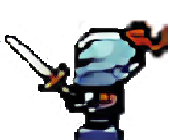
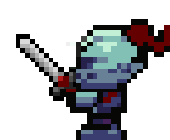
Redid all the player models, added the riposte mechanic, cleared some code

Changed region(s): [[0.0294, 0.1143, 1.0, 1.0]]

diff --git a/startGame.js b/startGame.js
@@ -2,20 +2,22 @@ const actionCounter = () => {
     drawStatusBox()
     // setTimeout(() => {
     if (opponentStance === playerStance) {
-        playerHlth -= 1
-        opponentHlth -= 1
+        // playerHlth -= 1
+        // opponentHlth -= 1
         riposteSound.play()
         drawStatusBox()
-        fightRsltBox()
+        // fightRsltBox()
         ctx.fillText('Same position!', 310, 220)
-        ctx.fillText('Both received 1 damage!', 310, 240)
+        // ctx.fillText('Both received 1 damage!', 310, 240)
+        riposteScreen()
+        return
     } else if (opponentStance === 0 && (playerStance === 1)) {
         playerHlth -= 1
         playerHitSound.play()
         hitSound.play()
         drawStatusBox()
         fightRsltBox()
-        ctx.fillText('The opponent parried you blow!', 310, 220)
+        ctx.fillText('The opponent parries!', 310, 220)
         ctx.fillText('You received 1 damage!', 310, 240)
     } else if (opponentStance === 1 && (playerStance === 2)) {
         playerHlth -= 2
@@ -23,7 +25,7 @@ const actionCounter = () => {
         playerHitSound.play()
         drawStatusBox()
         fightRsltBox()
-        ctx.fillText('The opponent parried you overhead!', 310, 220)
+        ctx.fillText('The opponent parries!', 310, 220)
         ctx.fillText('You received 2 damage!', 310, 240)
     } else if (opponentStance === 2 && (playerStance === 0)) {
         playerHlth -= 3
@@ -31,7 +33,7 @@ const actionCounter = () => {
         playerHitSound.play()
         drawStatusBox()
         fightRsltBox()
-        ctx.fillText('You did not manage to parry the overhead!', 310, 220)
+        ctx.fillText('You did not manage to parry!', 310, 220)
         ctx.fillText('You received 3 damage!', 310, 240)
     } else if (playerStance === 0 && (opponentStance === 1)) {
         opponentHlth -= 1
@@ -39,7 +41,7 @@ const actionCounter = () => {
         hitSound.play()
         drawStatusBox()
         fightRsltBox()
-        ctx.fillText(`You parry the opponent's blow!`, 310, 220)
+        ctx.fillText(`You parry the opponent!`, 310, 220)
         ctx.fillText('You deal 1 damage!', 310, 240)
     } else if (playerStance === 1 && (opponentStance === 2)) {
         opponentHlth -= 2
@@ -47,7 +49,7 @@ const actionCounter = () => {
         crowdCheer.play()
         drawStatusBox()
         fightRsltBox()
-        ctx.fillText(`You parry the opponent's overhead!`, 310, 220)
+        ctx.fillText(`You parry the opponent!`, 310, 220)
         ctx.fillText('You deal 2 damage!', 310, 240)
     } else if (playerStance === 2 && (opponentStance === 0)) {
         opponentHlth -= 3
@@ -55,7 +57,7 @@ const actionCounter = () => {
         crowdCheer.play()
         drawStatusBox()
         fightRsltBox()
-        ctx.fillText(`You manage to go past the defence!`, 310, 220)
+        ctx.fillText(`You strike past the defence!`, 310, 220)
         ctx.fillText('You deal 3 damage!', 310, 240)
     }
     console.log('action called')
@@ -69,16 +71,31 @@ const actionCounter = () => {
     }, 2000)
 }
 const riposteScreen = () => {
-    posBtns.classList.add('hidden')
-    riposteBtn.classList.remove('hidden')
+    midBtn.removeEventListener('click', midBtnFunction)
+    topBtn.removeEventListener('click', topBtnFunction)
+    lowBtn.removeEventListener('click', lowBtnFunction)
+
+    midBtn.addEventListener('click', riposteMidBtn)
+    topBtn.addEventListener('click', riposteTopBtn)
+    lowBtn.addEventListener('click', riposteBotBtn)
+
+    ctx.drawImage(action, 0, 0)
+    drawStatusBox()
+    ctx.drawImage(findPlayerPos(), 350, 300)
+    ctx.drawImage(findOppPos(), 450, 300)
+    posBtns.classList.remove('hidden')
     riposteCount++
     console.log('riposte')
-    ctx.drawImage(action, 0, 0)
-    ctx.fillStyle = '#756e75'
+    ctx.fillStyle = 'black'
     ctx.font = '34px Verdana'
     ctx.fillText('Riposte!', 400, 200)
-    ctx.fillText(`You have ${(2000-riposteCount*100)}  to decide!`, 320, 240)
-    setTimeout(() => {}, 2000 - (riposteCount * 100))
+    ctx.fillText(`You have ${(2000-riposteCount*100)}s to decide!`, 320, 240)
+    setTimeout(() => {
+        actionCounter()
+        midBtn.removeEventListener('click', riposteMidBtn)
+        topBtn.removeEventListener('click', riposteTopBtn)
+        lowBtn.removeEventListener('click', riposteBotBtn)
+    }, 2000 - (riposteCount * 100))
 }
 const duelAnim = () => {
     let setIntervalId = 0
@@ -162,7 +179,7 @@ const loseAnim = () => {
                 animCount = 0
                 break;
         }
-        playerX += 5
+        playerX += 10
         animCount++
     }, 500)
     setTimeout(() => {
@@ -241,10 +258,10 @@ const drawStatusBox = () => {
     ctx.closePath()
 }
 const actionImg = () => {
-    duelBtn.removeEventListener('click', () => {})
-    midBtn.removeEventListener('click', () => {})
+    duelBtn.removeEventListener('click', duelBtnFunction)
+    midBtn.removeEventListener('click', midBtnFunction)
     topBtn.removeEventListener('click', topBtnFunction)
-    lowBtn.removeEventListener('click', () => {})
+    lowBtn.removeEventListener('click', lowBtnFunction)
     if (playerHlth <= 0) {
         loseAnim()
         return
@@ -350,4 +367,27 @@ const duelBtnFunction = () => {
     ctx.drawImage(playerIdleImg, 50, 300)
     ctx.drawImage(opponentIdle, canvas.width - 200, 300)
     duelAnim()
+}
+
+const riposteTopBtn = () => {
+    console.log('topbtn')
+    playerStance = 2
+    ctx.drawImage(action, 0, 0)
+    drawStatusBox()
+    ctx.drawImage(playerTopImg, 350, 300)
+    ctx.drawImage(findOppPos(), 450, 300)
+}
+const riposteMidBtn = () => {
+    playerStance = 1
+    ctx.drawImage(action, 0, 0)
+    drawStatusBox()
+    ctx.drawImage(findOppPos(), 450, 300)
+    ctx.drawImage(playerMidImg, 350, 300)
+}
+const riposteBotBtn = () => {
+    playerStance = 0
+    ctx.drawImage(action, 0, 0)
+    drawStatusBox()
+    ctx.drawImage(findOppPos(), 450, 300)
+    ctx.drawImage(playerBotImg, 350, 300)
 }
